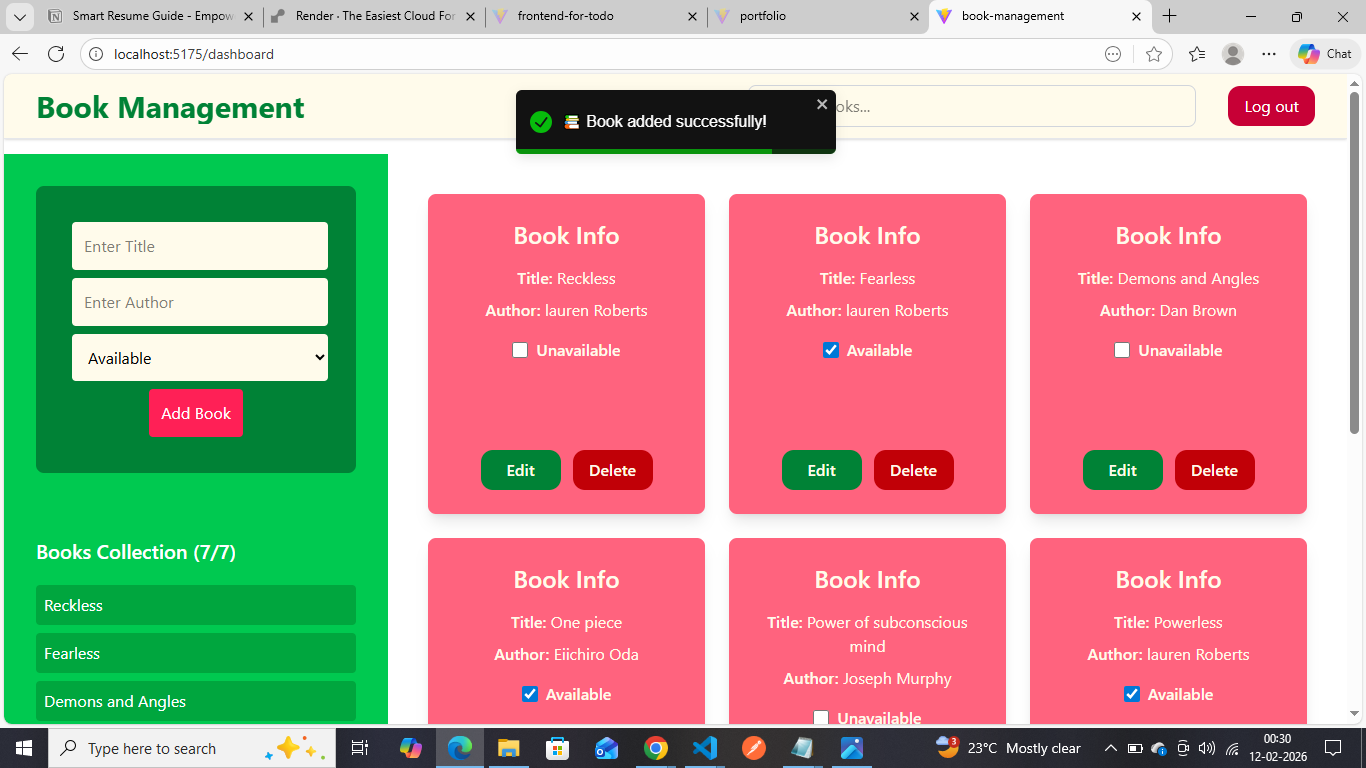
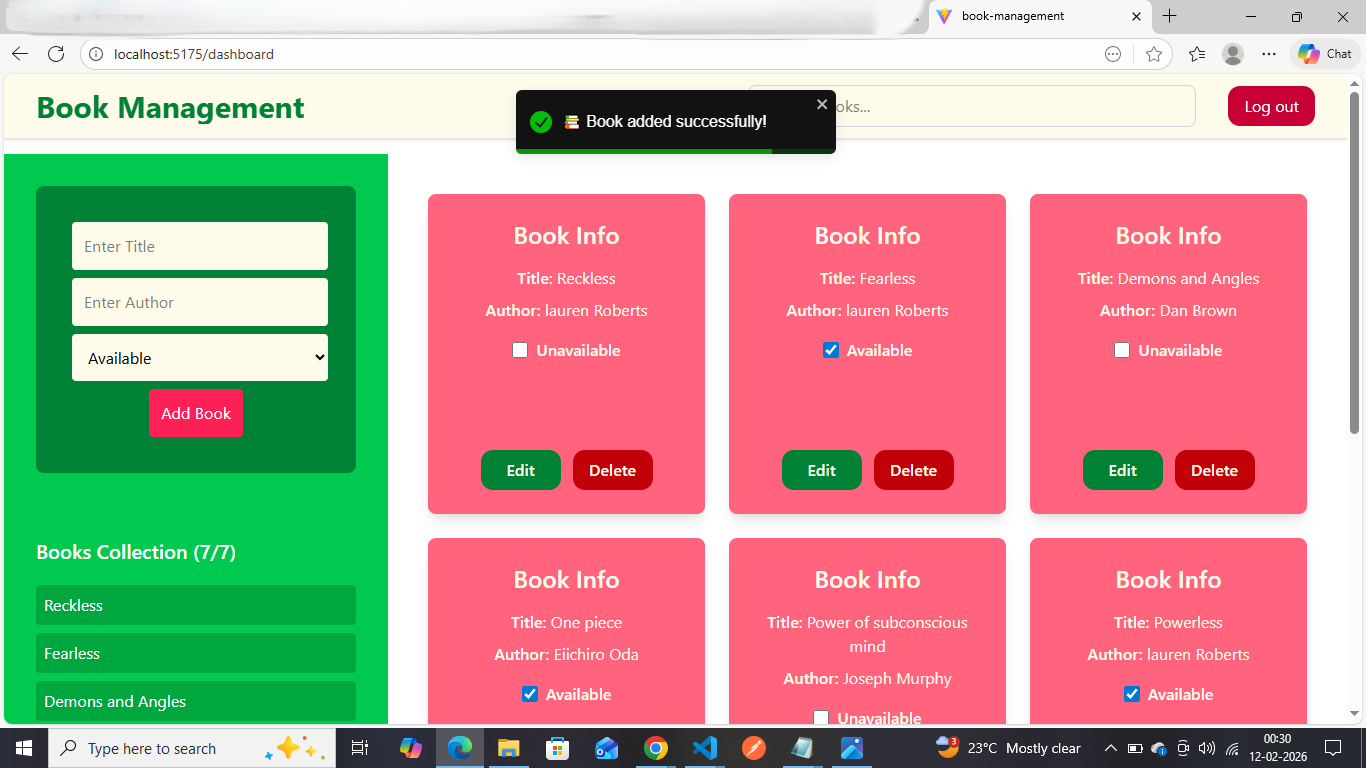
final change in screenshot path

Changed region(s): [[0.0, 0.0, 0.6764, 0.0625]]

diff --git a/README.md b/README.md
@@ -9,14 +9,12 @@ A simple book management app to add, edit, delete, search and manage book availa
 
 ---
 ## Demo Images
-![Login Page Screenshot](src/assets/screenshotLogin.png)
-
-
-![Dashboard Page Screenshot](src/assets/screenshotHome.png)
 
 <div align="center">
   <img src="https://github.com/G-Kangutkar/book-management/blob/main/public/ScreenshotLogin.png?raw=true" alt="Screenshot of the application login page">
 </div>
+
+
 <div align="center">
   <img src="https://github.com/G-Kangutkar/book-management/blob/main/public/ScreenshotHome.png?raw=true" alt="Screenshot of the application home page">
 </div>
